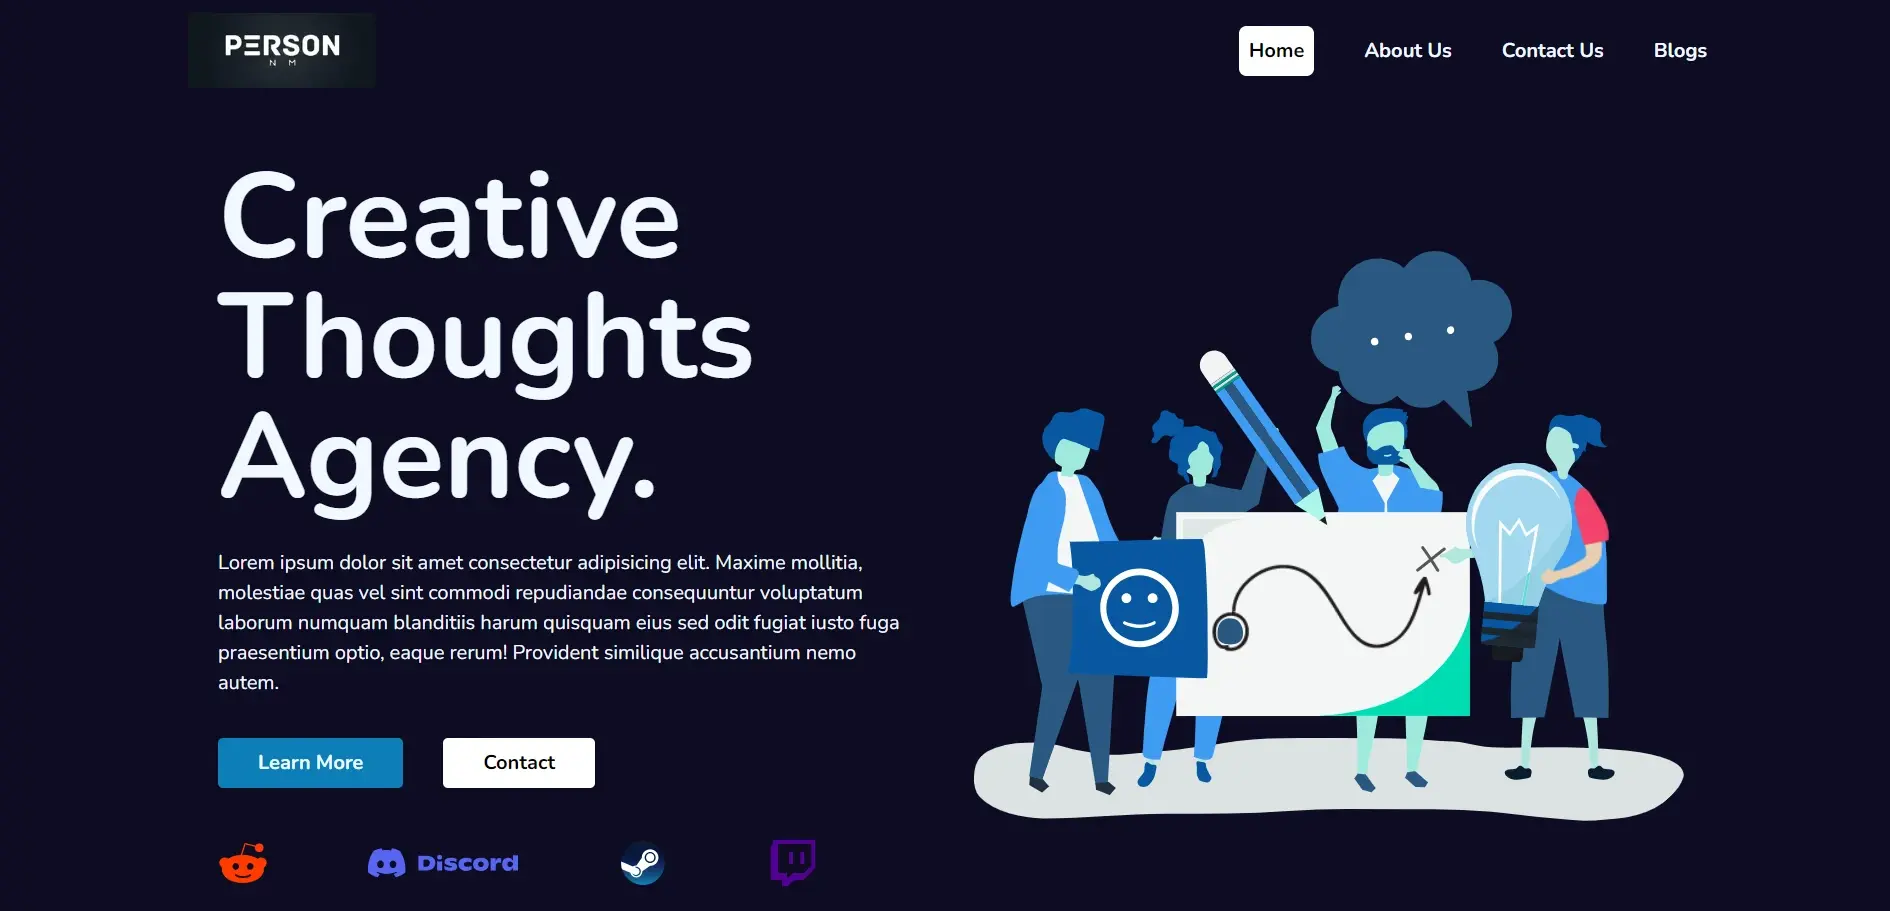
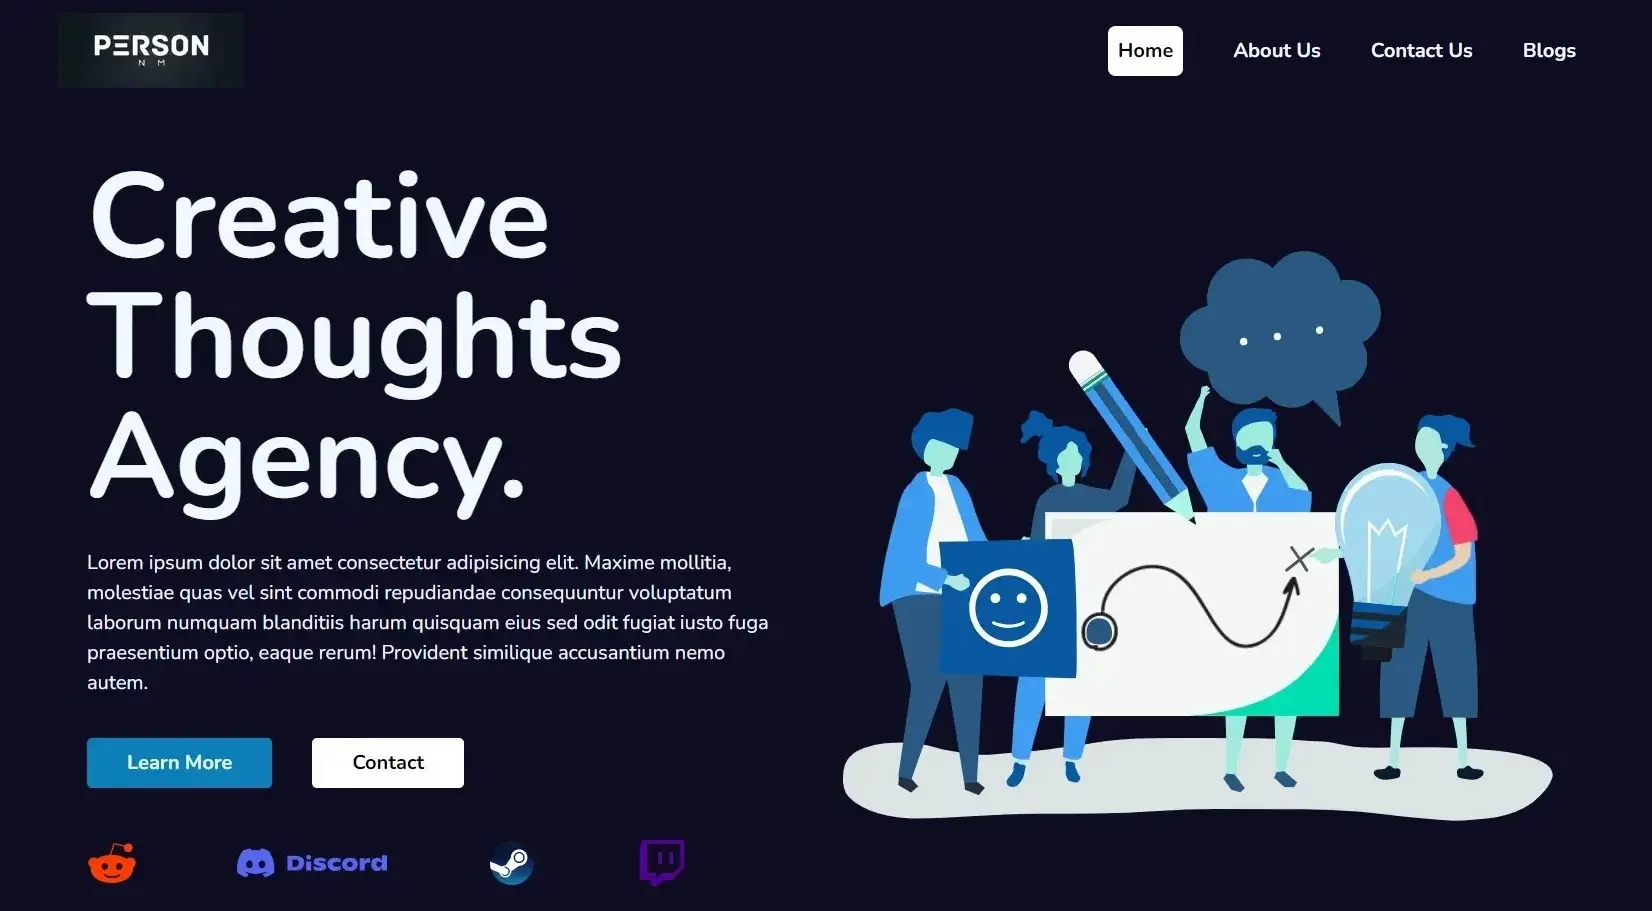
Added a Loader component, compressed images and made some changes to optimise performance

diff --git a/src/components/resume/Resume.jsx b/src/components/resume/Resume.jsx
@@ -1,5 +1,6 @@
 import React, { Suspense, lazy} from 'react';
 import FadeInDiv from '../animated divs/FadeInDiv';
+import Loader from '../Loader';
 
 const Experience = lazy(() => import("./Experience"));
 const Education = lazy(() => import("./Education"));
@@ -12,7 +13,7 @@ const Resume = ({ theme }) => {
                     <h1 className='font-bold text-4xl text-sky-600 dark:text-sky-500 tracking-wide'>Resume</h1>
                     <h2 className='font-bold text-2xl lg:text-3xl tracking-wide mt-2'>More of my credentials</h2>
                 </FadeInDiv>
-                <Suspense fallback={<div>Loading...</div>}>
+                <Suspense fallback={ <Loader /> }>
                     <div className='py-6 mt-4'>
                         <Experience theme={theme} />
                         <Education theme={theme} />

diff --git a/src/App.js b/src/App.js
@@ -1,4 +1,5 @@
 import React, { useState, useEffect, Suspense, lazy } from 'react';
+import Loader from './components/Loader';
 
 const ProgressBar = lazy(() => import("./components/navigation/ProgressBar"));
 const Navbar = lazy(() => import("./components/navigation/Navbar"));
@@ -31,7 +32,7 @@ const App = () => {
 
     return (
         <>
-            <Suspense fallback={<div>Loading...</div>}>
+            <Suspense fallback={ <Loader /> }>
                 <ProgressBar />
                 <Navbar theme={theme} toggleTheme={toggleTheme} />
                 <HeroSection />

diff --git a/public/index.html b/public/index.html
@@ -32,6 +32,7 @@
 		<link rel="preload" href="https://fonts.googleapis.com/css2?family=Nunito:wght@400;600;700&display=swap" as="style" onload="this.onload=null;this.rel='stylesheet'">
 		<noscript><link rel="stylesheet" href="https://fonts.googleapis.com/css2?family=Nunito:wght@400;600;700&display=swap"></noscript>
 		<!-- Pre-load background image -->
+		<link rel="preload" href="../public/images/hero-section-image-small.webp" as="image">
 		<link rel="preload" href="../public/images/hero-section-image.webp" as="image">
 	</head>
 	<body>

diff --git a/src/index.css b/src/index.css
@@ -22,7 +22,7 @@ body {
     left: 0;
     width: 100%;
     height: 100%;
-    background-image: url('../public/images/hero-section-image.webp');
+    background-image: url('../public/images/hero-section-image-small.webp');
     background-size: cover;
     background-position: center;
     opacity: 0.5;
@@ -61,4 +61,10 @@ body {
 
 ::-webkit-scrollbar {
     display: none;
+}
+
+@media (min-width: 768px) {
+    .hero-container::before {
+        background-image: url('../public/images/hero-section-image.webp');
+    }
 }

diff --git a/src/components/Loader.jsx b/src/components/Loader.jsx
@@ -1,0 +1,18 @@
+import React from 'react';
+import { FallingLines } from 'react-loader-spinner';
+
+const Loader = () => {
+    return (
+        <div className='flex flex-col items-center justify-center min-h-screen'>
+            <FallingLines
+                color="#0284c7"
+                width="100"
+                visible={true}
+                ariaLabel="falling-circles-loading"
+            />
+            <h3 className='font-bold text-2xl '>Loading...</h3>
+        </div>
+    )
+};
+
+export default Loader
